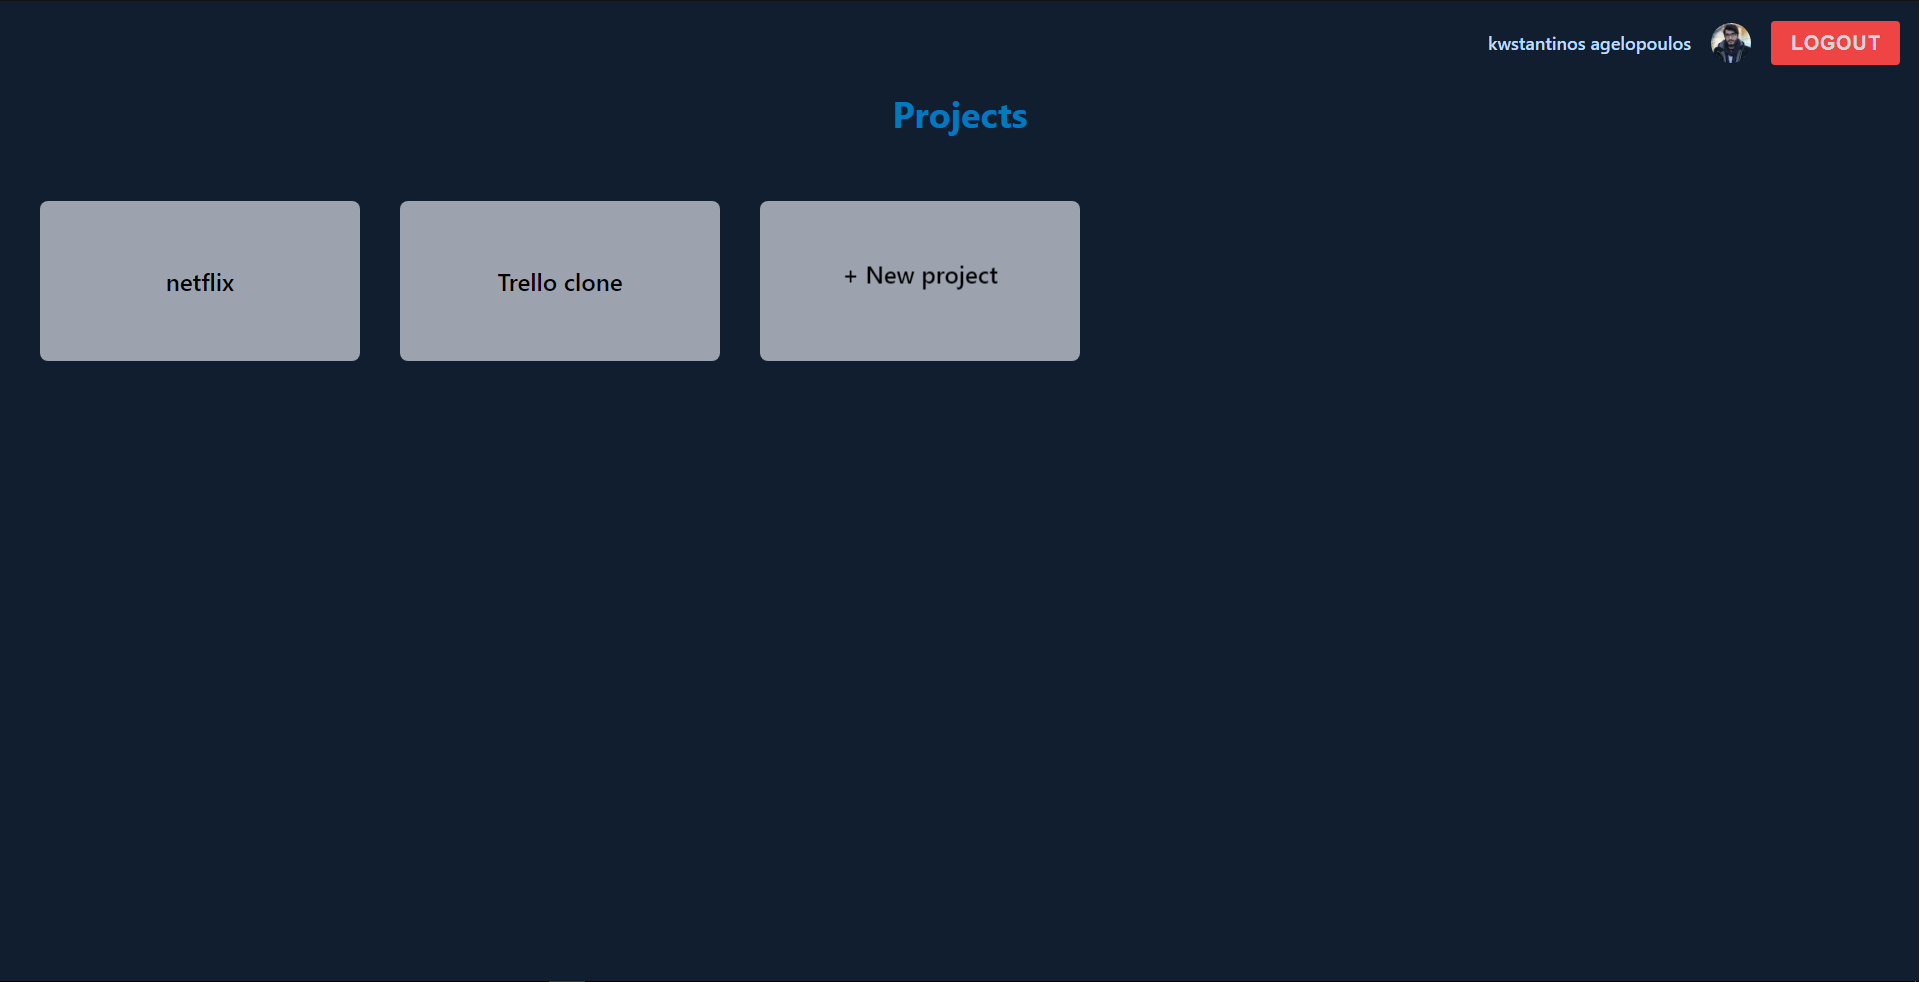
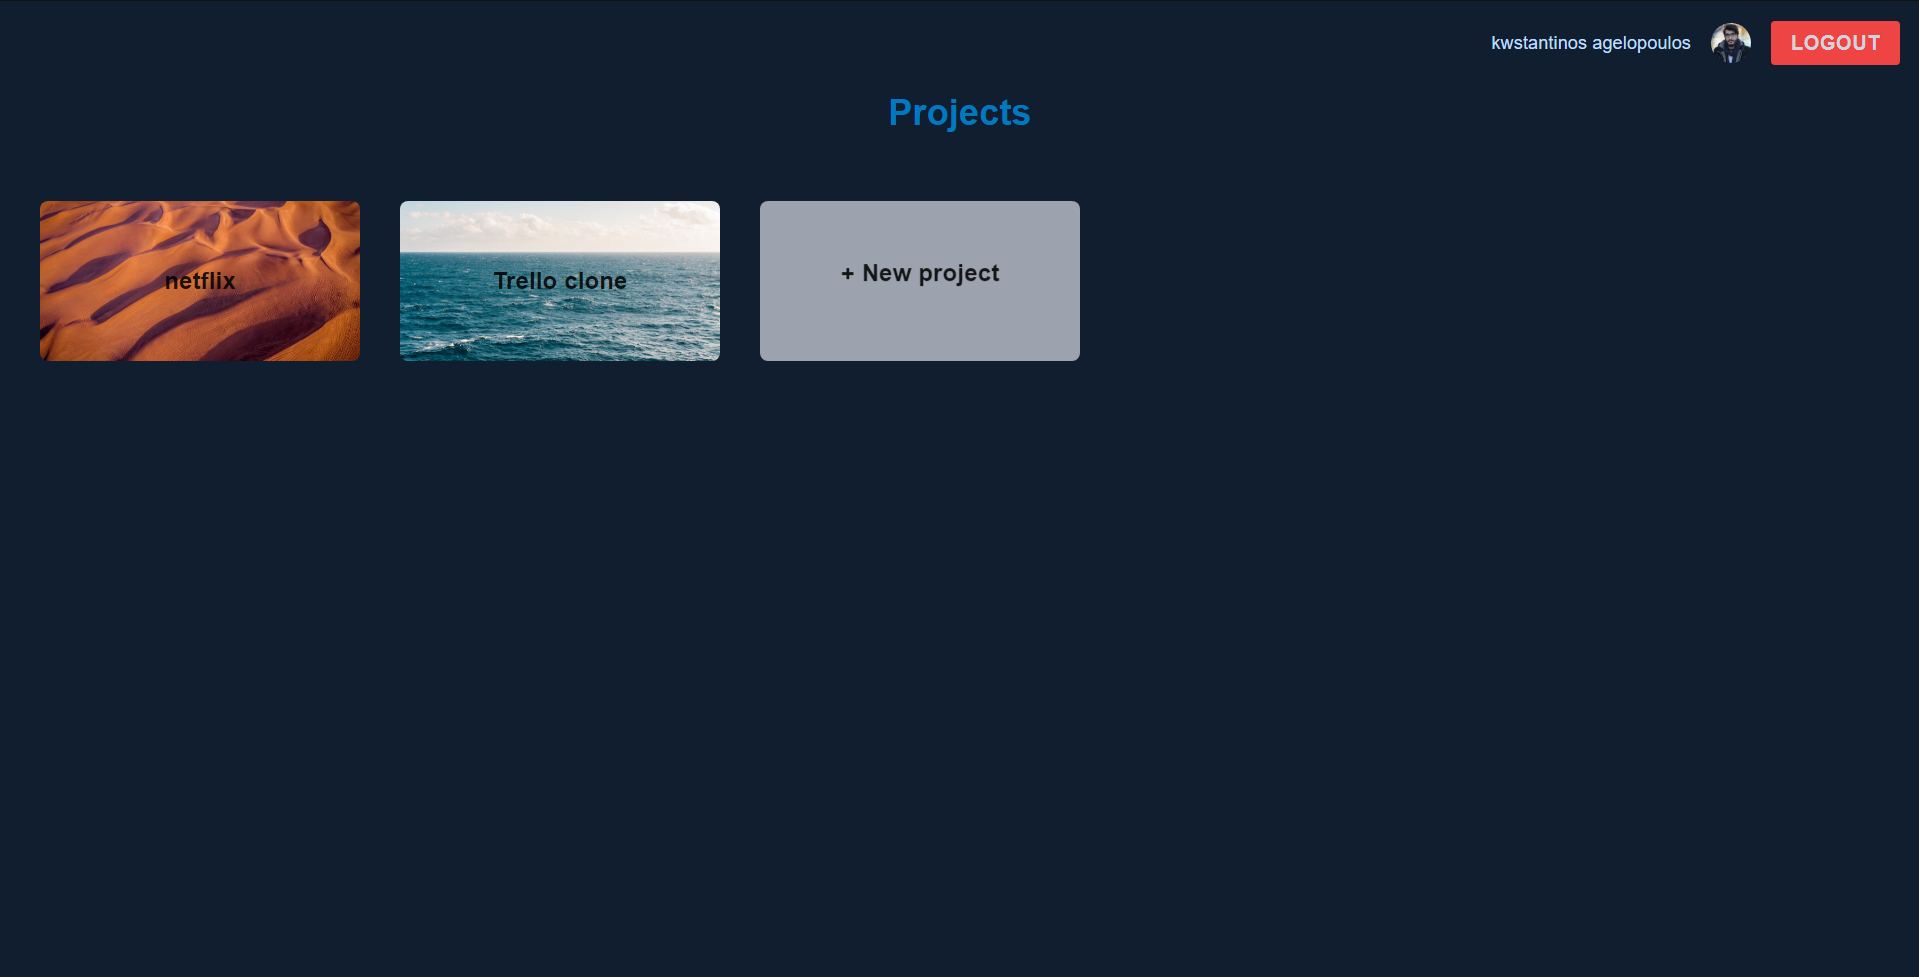
:zap: styling home page

diff --git a/src/components/Project.js b/src/components/Project.js
@@ -1,12 +1,13 @@
-import React from 'react';
+import React, { useEffect, useState } from 'react';
 import { actionTypes } from '../utils/reducer';
 import { useStateValue } from '../utils/StateProvider';
 import { useHistory } from 'react-router-dom';
 
-function Project({ projectId, projectName }) {
+function Project({ projectBackgroundImage, projectBackgroundColor, projectId, projectName }) {
   //eslint-disable-next-line
   const [state, dispatch] = useStateValue();
   const history = useHistory();
+  const [background, setBackground] = useState('')
 
   /* Handle project clicked doc id and pass it on the query */
   const handleActiveProject = () => {
@@ -17,8 +18,20 @@ function Project({ projectId, projectName }) {
     history.push(`home/board/${projectId}`)
   }
 
+  useEffect(() => {
+    if (projectBackgroundColor === 'blank') {
+      document.getElementById(projectId).style.backgroundImage = `url(${projectBackgroundImage})`
+      document.getElementById(projectId).style.backgroundRepeat = 'no-repeat';
+      document.getElementById(projectId).style.backgroundSize = 'cover';
+      document.getElementById(projectId).style.boxSizing = 'border-box';
+    } else {
+      setBackground(projectBackgroundColor);
+      document.getElementById(projectId).style.backgroundImage = 'none';
+    }
+  }, [projectBackgroundImage, projectBackgroundColor, projectId])
+
   return (
-    <div onClick={()=>handleActiveProject()} className="bg-gray-400 rounded-lg cursor-pointer hover:bg-gray-300 m-5 px-5 py-16 w-full xs:max-w-xs flex flex-grow justify-center place-items-center">
+    <div id={projectId} onClick={()=>handleActiveProject()} className={`${background} rounded-lg cursor-pointer hover:bg-opacity-700 m-5 px-5 py-16 w-full xs:max-w-xs flex flex-grow justify-center place-items-center`}>
       <h3 className="text-center text-xl xs:text-2xl font-semibold">
         {projectName}
       </h3>

diff --git a/src/pages/Home.js b/src/pages/Home.js
@@ -32,7 +32,7 @@ function Home() {
         <h2 className="font-bold text-2xl sm:text-4xl text-[#0079BF] px-5 py-2"> Projects </h2>
         <div className="px-5 my-10 w-full flex flex-wrap items-center justify-center md:justify-start">
           {projects?.docs.map(doc => (
-            <Project projectId={doc.id} key={doc.id} projectName={doc.data().projectName}/>
+            <Project projectBackgroundColor={doc.data().backgroundColor} projectBackgroundImage={doc.data().backgroundImage} projectId={doc.id} key={doc.id} projectName={doc.data().projectName}/>
           ))}
           <InputProject />
         </div>
